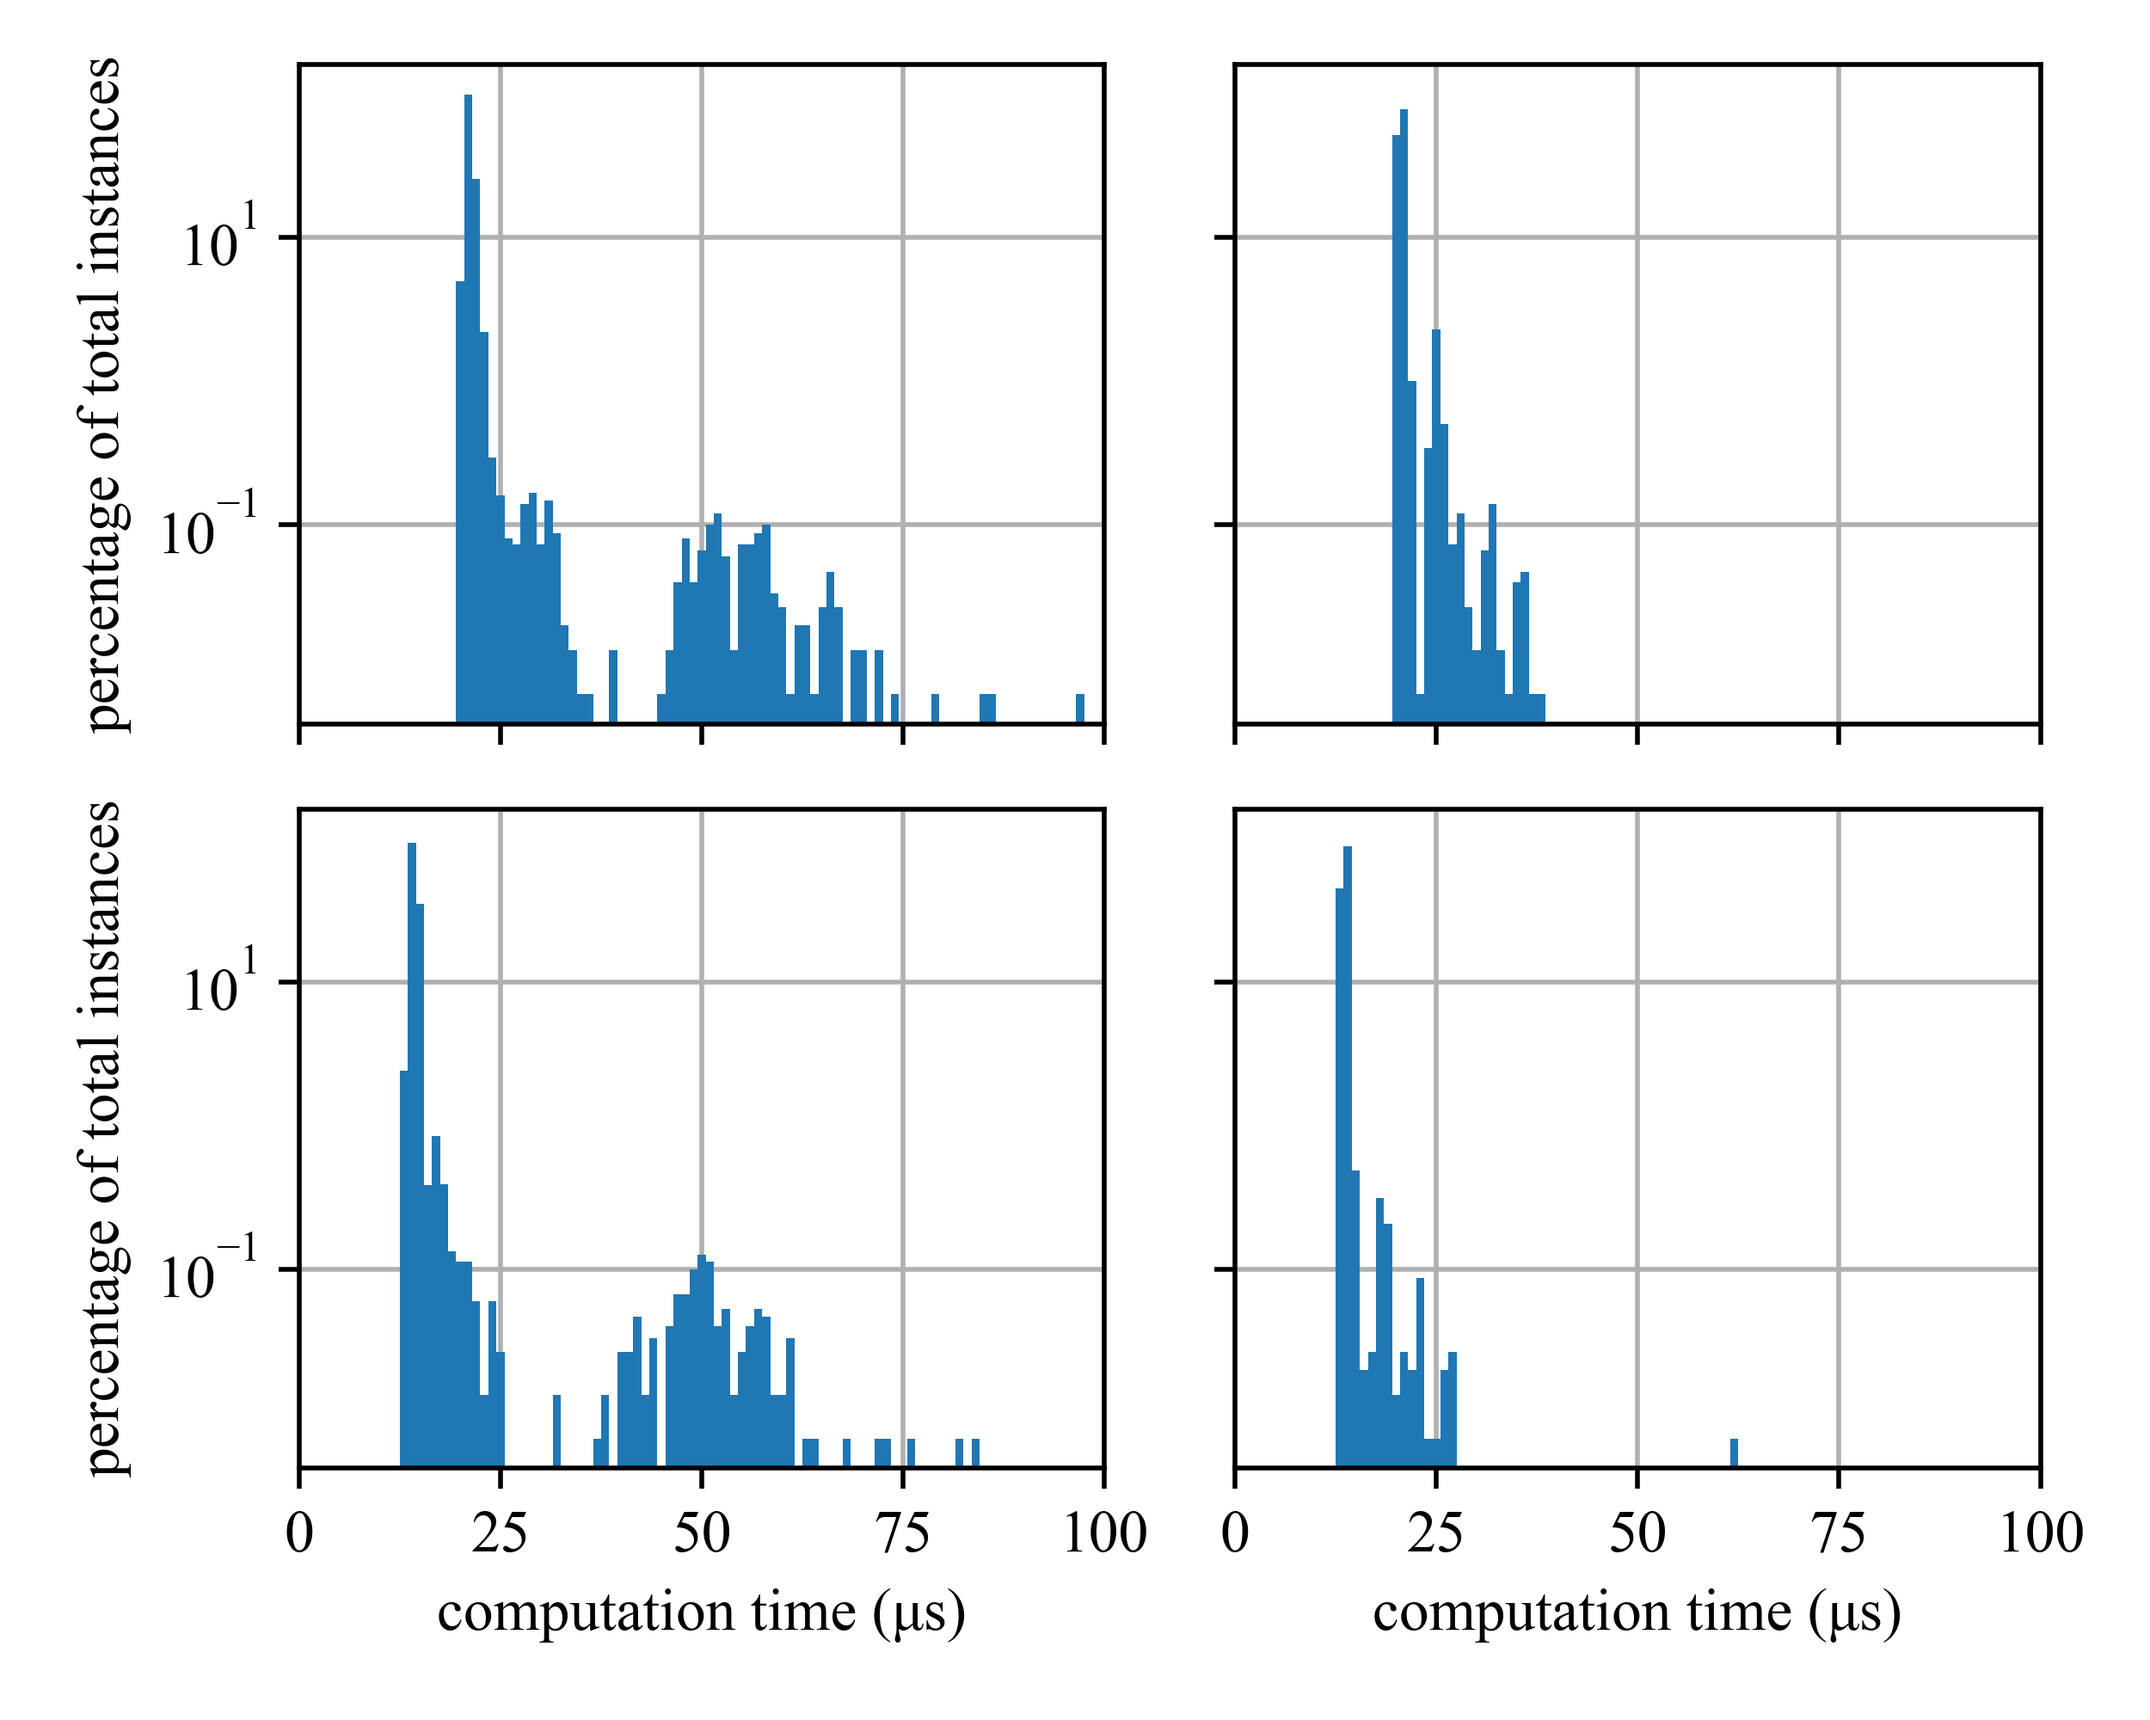
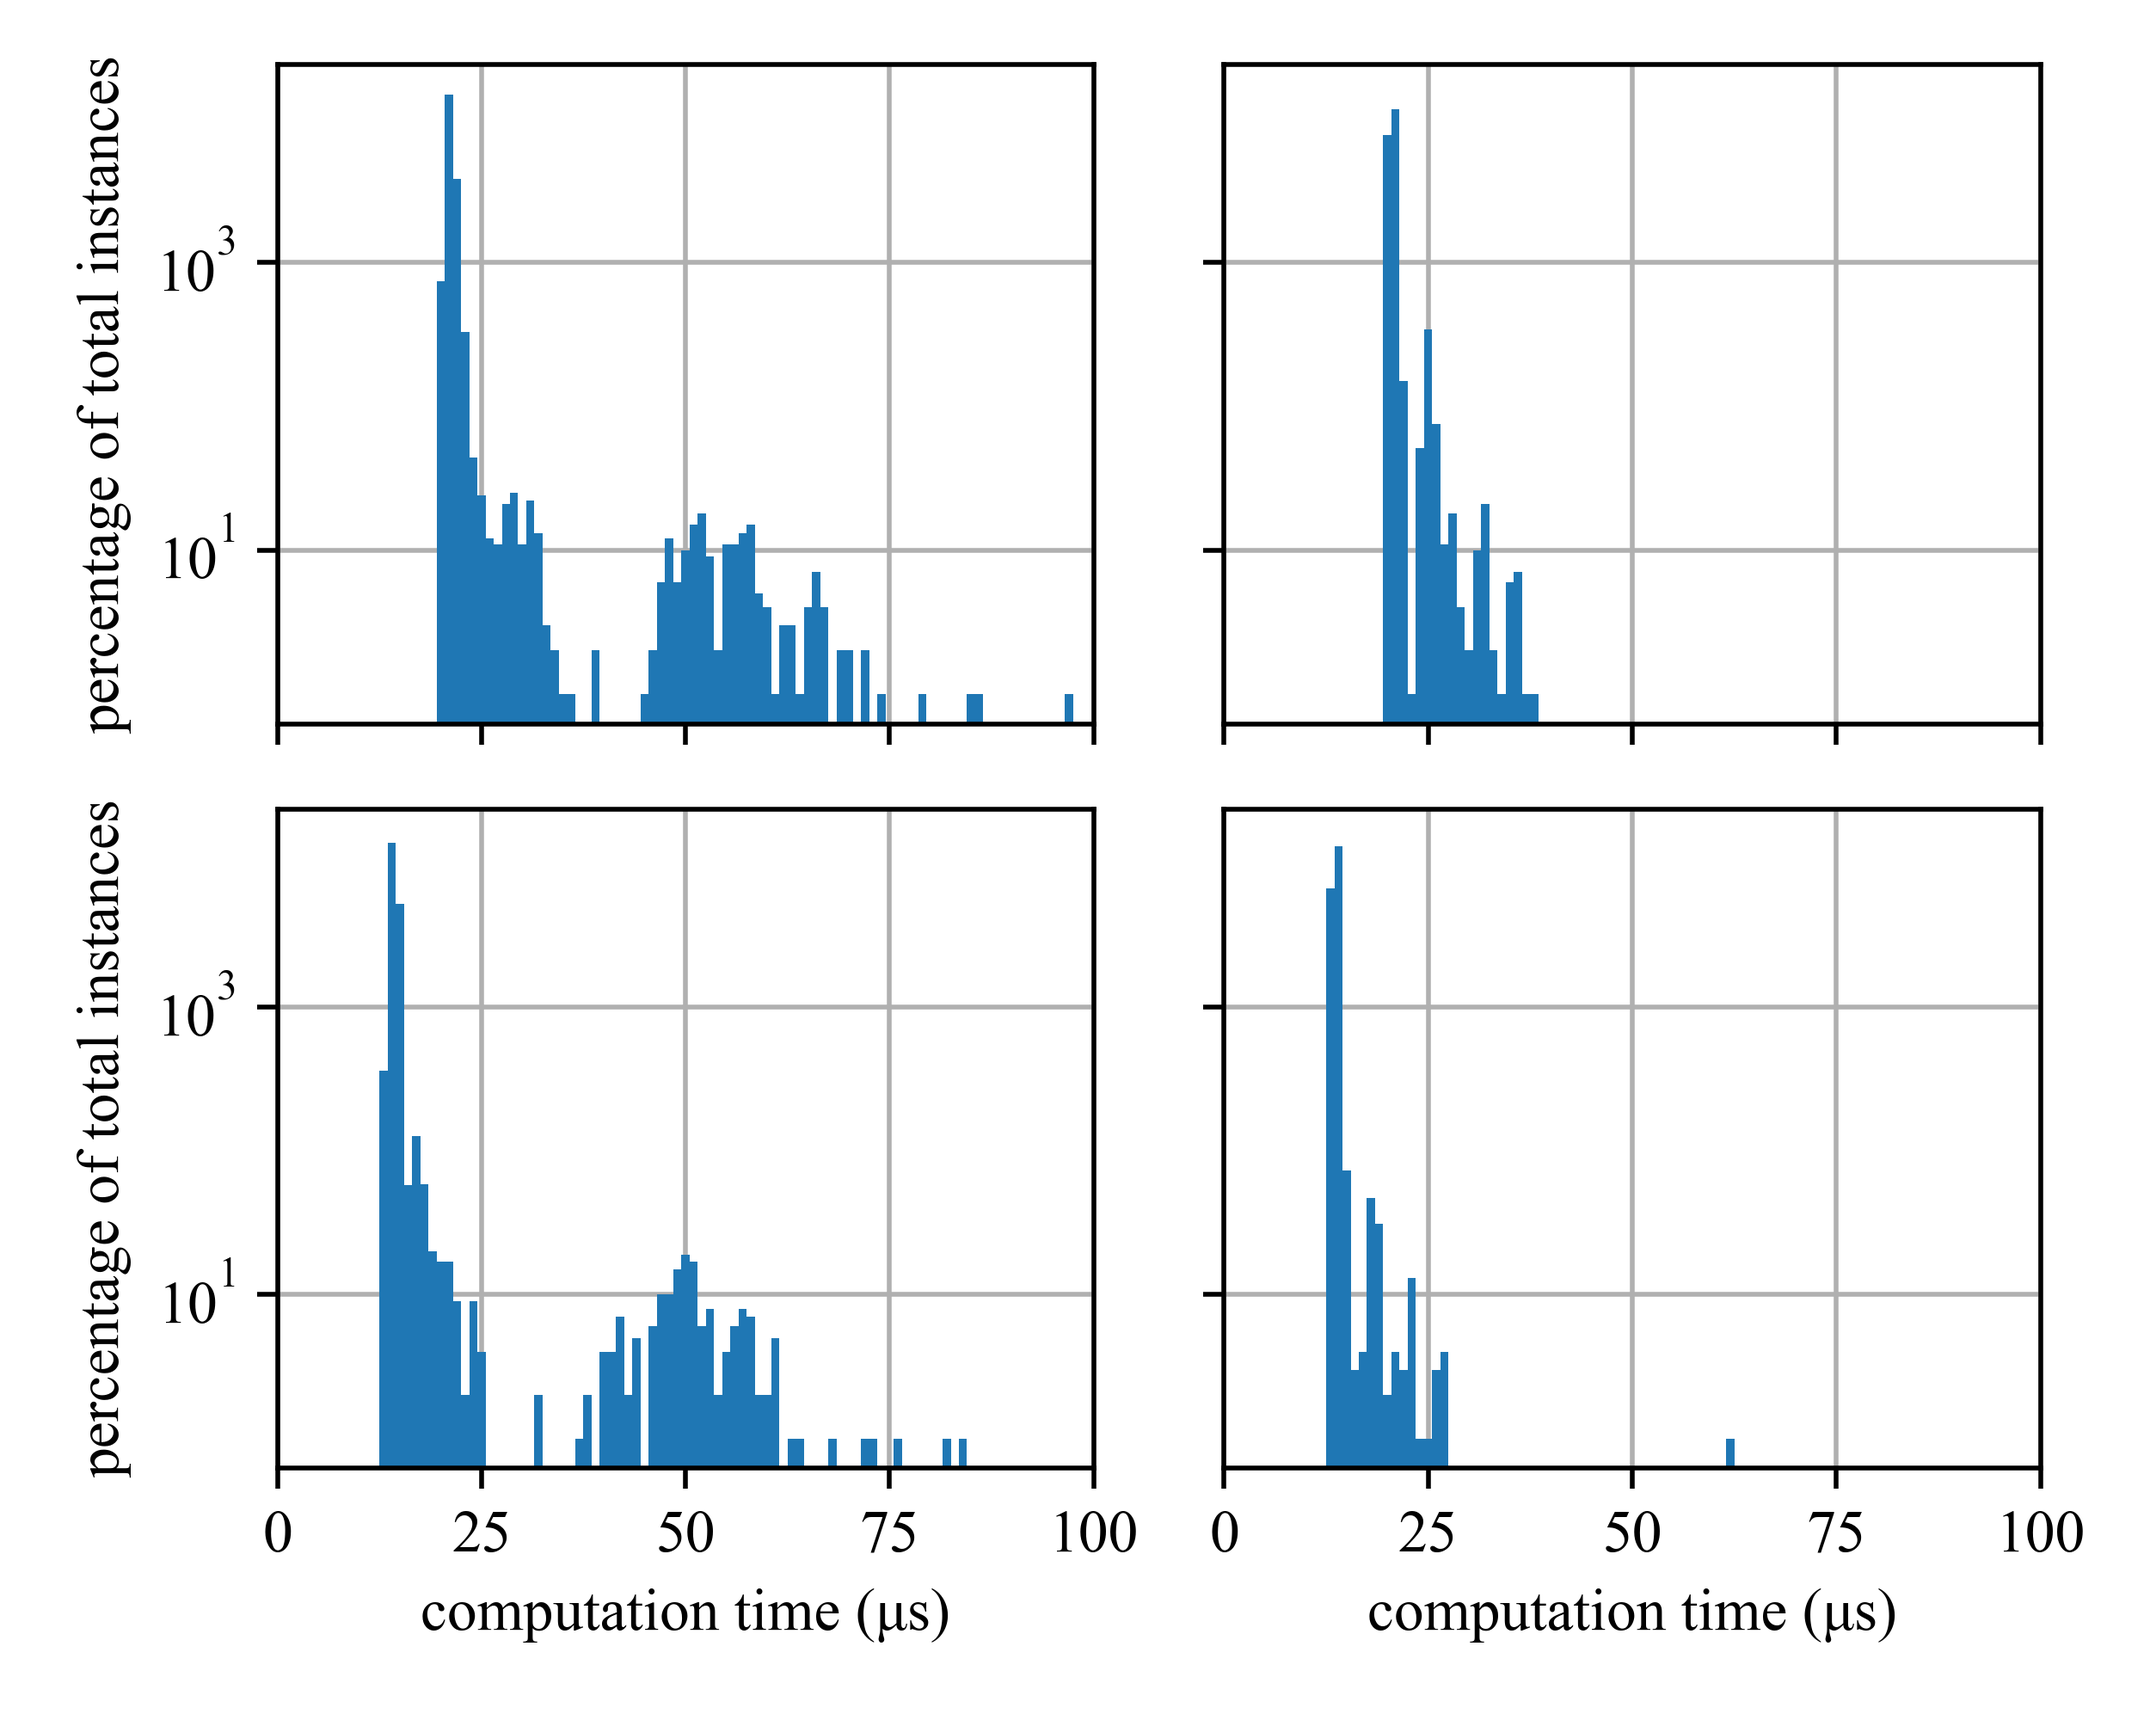
push plot code

diff --git a/prediction analysis/timing distribution plots.py b/prediction analysis/timing distribution plots.py
@@ -29,36 +29,305 @@ prio_sig = np.loadtxt('./timing distributions/priority sigmoid.csv', delimiter='
 
 
 dists = [gpos_mul, gpos_sig, rtos_mul, rtos_sig, prio_mul, prio_sig]
-
+#%% mean and std for all datasets
+for dist in dists:
+    d = np.repeat(np.arange(0, 150), dist)
+    mean = np.mean(d)
+    std = np.std(d)
+    print('mean: ' + str(mean))
+    print('std: ' + str(std))
+#%% normalize all the datasets
 for i in range(len(dists)):
     dists[i] = dists[i]/dists[i].size
-#%% mean and std for all datasets
+#%% all distributions with linear and log y axes
+dist = dists[0]
+fig, (ax1, ax2) = plt.subplots(1, 2, figsize=(7,2.5))
+ax1.bar(np.arange(0, 150), dist, width=1, align='center', edgecolor='k', linewidth=0)
+ax1.grid(True)
+ax1.set_axisbelow(True)
+ax1.set_xlim((0, 25))
+ax1.set_xlabel(u'computation time (\u03bcs)')
+ax1.set_ylabel('percentage of total instances')
 
-#%% 
+ax2.bar(np.arange(0, 150), dist, width=1, align='center', edgecolor='k', linewidth=0)
+ax2.grid(True)
+ax2.set_axisbelow(True)
+ax2.set_xlim((0, 25))
+plt.yscale('log')
+ax2.set_xlabel(u'computation time (\u03bcs)')
+ax2.set_ylabel('percentage of total instances')
+plt.tight_layout()
+plt.savefig('./plots/gpos multiply.png', dpi=500)
 
+#%%
+dist = dists[1]
+fig, (ax1, ax2) = plt.subplots(1, 2, figsize=(7,2.5))
+ax1.bar(np.arange(0, 150), dist, width=1, align='center', edgecolor='k', linewidth=0)
+ax1.grid(True)
+ax1.set_axisbelow(True)
+ax1.set_xlim((0, 50))
+ax1.set_xlabel(u'computation time (\u03bcs)')
+ax1.set_ylabel('percentage of total instances')
 
+ax2.bar(np.arange(0, 150), dist, width=1, align='center', edgecolor='k', linewidth=0)
+ax2.grid(True)
+ax2.set_axisbelow(True)
+ax2.set_xlim((0, 50))
+plt.yscale('log')
+ax2.set_xlabel(u'computation time (\u03bcs)')
+ax2.set_ylabel('percentage of total instances')
+plt.tight_layout()
+plt.savefig('./plots/gpos sigmoid.png', dpi=500)
+#%%
+dist = dists[2]
+fig, (ax1, ax2) = plt.subplots(1, 2, figsize=(7,2.5))
+ax1.bar(np.arange(0, 150), dist, width=1, align='center', edgecolor='k', linewidth=0)
+ax1.grid(True)
+ax1.set_axisbelow(True)
+ax1.set_xlim((0, 100))
+ax1.set_xlabel(u'computation time (\u03bcs)')
+ax1.set_ylabel('percentage of total instances')
+
+ax2.bar(np.arange(0, 150), dist, width=1, align='center', edgecolor='k', linewidth=0)
+ax2.grid(True)
+ax2.set_axisbelow(True)
+ax2.set_xlim((0, 100))
+plt.yscale('log')
+ax2.set_xlabel(u'computation time (\u03bcs)')
+ax2.set_ylabel('percentage of total instances')
+plt.tight_layout()
+plt.savefig('./plots/rtos multiply.png', dpi=500)
+#%%
+dist = dists[3]
+fig, (ax1, ax2) = plt.subplots(1, 2, figsize=(7,2.5))
+ax1.bar(np.arange(0, 150), dist, width=1, align='center', edgecolor='k', linewidth=0)
+ax1.grid(True)
+ax1.set_axisbelow(True)
+ax1.set_xlim((0, 90))
+ax1.set_xlabel(u'computation time (\u03bcs)')
+ax1.set_ylabel('percentage of total instances')
+
+ax2.bar(np.arange(0, 150), dist, width=1, align='center', edgecolor='k', linewidth=0)
+ax2.grid(True)
+ax2.set_axisbelow(True)
+ax2.set_xlim((0, 90))
+plt.yscale('log')
+ax2.set_xlabel(u'computation time (\u03bcs)')
+ax2.set_ylabel('percentage of total instances')
+plt.tight_layout()
+plt.savefig('./plots/rtos sigmoid.png', dpi=500)
+#%%
+dist = dists[4]
+fig, (ax1, ax2) = plt.subplots(1, 2, figsize=(7,2.5))
+ax1.bar(np.arange(0, 150), dist, width=1, align='center', edgecolor='k', linewidth=0)
+ax1.grid(True)
+ax1.set_axisbelow(True)
+ax1.set_xlim((0, 50))
+ax1.set_xlabel(u'computation time (\u03bcs)')
+ax1.set_ylabel('percentage of total instances')
+
+ax2.bar(np.arange(0, 150), dist, width=1, align='center', edgecolor='k', linewidth=0)
+ax2.grid(True)
+ax2.set_axisbelow(True)
+ax2.set_xlim((0, 50))
+plt.yscale('log')
+ax2.set_xlabel(u'computation time (\u03bcs)')
+ax2.set_ylabel('percentage of total instances')
+plt.tight_layout()
+plt.savefig('./plots/priority multiply.png', dpi=500)
+#%%
+dist = dists[5]
+fig, (ax1, ax2) = plt.subplots(1, 2, figsize=(7,2.5))
+ax1.bar(np.arange(0, 150), dist, width=1, align='center', edgecolor='k', linewidth=0)
+ax1.grid(True)
+ax1.set_axisbelow(True)
+ax1.set_xlim((0, 40))
+ax1.set_xlabel(u'computation time (\u03bcs)')
+ax1.set_ylabel('percentage of total instances')
+
+ax2.bar(np.arange(0, 150), dist, width=1, align='center', edgecolor='k', linewidth=0)
+ax2.grid(True)
+ax2.set_axisbelow(True)
+ax2.set_xlim((0, 40))
+plt.yscale('log')
+ax2.set_xlabel(u'computation time (\u03bcs)')
+ax2.set_ylabel('percentage of total instances')
+plt.tight_layout()
+plt.savefig('./plots/priority sigmoid.png', dpi=500)
+#%% multiplots comparing gpos, rtos results for multiply and sigmoid
+fig, (ax1, ax2) = plt.subplots(2, 1, figsize=(5, 4), sharex=True, sharey=True)
+plt.xlim((0, 100))
+
+ax1.bar(np.arange(0, 150), dists[0], width=1, align='center', edgecolor='k', linewidth=0)
+ax1.grid(True)
+ax1.set_axisbelow(True)
+plt.yscale('log')
+ax1.set_ylabel('percentage of total instances')
+
+ax2.bar(np.arange(0, 150), dists[2], width=1, align='center', edgecolor='k', linewidth=0)
+ax2.grid(True)
+ax2.set_axisbelow(True)
+plt.yscale('log')
+ax2.set_xlabel(u'computation time (\u03bcs)')
+ax2.set_ylabel('percentage of total instances')
+
+plt.tight_layout()
+plt.savefig('./plots/gpos_rtos multiply.png', dpi=500)
+#%%
+fig, (ax1, ax2) = plt.subplots(2, 1, figsize=(5, 4), sharex=True, sharey=True)
+plt.xlim((0, 100))
+
+ax1.bar(np.arange(0, 150), dists[1], width=1, align='center', edgecolor='k', linewidth=0)
+ax1.grid(True)
+ax1.set_axisbelow(True)
+plt.yscale('log')
+ax1.set_ylabel('percentage of total instances')
+
+ax2.bar(np.arange(0, 150), dists[3], width=1, align='center', edgecolor='k', linewidth=0)
+ax2.grid(True)
+ax2.set_axisbelow(True)
+plt.yscale('log')
+ax2.set_xlabel(u'computation time (\u03bcs)')
+ax2.set_ylabel('percentage of total instances')
+
+plt.tight_layout()
+plt.savefig('./plots/gpos_rtos sigmoid.png', dpi=500)
+#%% same thing comparing rtos and priority
+fig, (ax1, ax2) = plt.subplots(2, 1, figsize=(5, 4), sharex=True, sharey=True)
+plt.xlim((0, 100))
+
+ax1.bar(np.arange(0, 150), dists[2], width=1, align='center', edgecolor='k', linewidth=0)
+ax1.grid(True)
+ax1.set_axisbelow(True)
+plt.yscale('log')
+ax1.set_ylabel('percentage of total instances')
+
+ax2.bar(np.arange(0, 150), dists[4], width=1, align='center', edgecolor='k', linewidth=0)
+ax2.grid(True)
+ax2.set_axisbelow(True)
+plt.yscale('log')
+ax2.set_xlabel(u'computation time (\u03bcs)')
+ax2.set_ylabel('percentage of total instances')
+
+plt.tight_layout()
+plt.savefig('./plots/rtos_priority multiply.png', dpi=500)
+#%%
+fig, (ax1, ax2) = plt.subplots(2, 1, figsize=(5, 4), sharex=True, sharey=True)
+plt.xlim((0, 100))
+
+ax1.bar(np.arange(0, 150), dists[3], width=1, align='center', edgecolor='k', linewidth=0)
+ax1.grid(True)
+ax1.set_axisbelow(True)
+plt.yscale('log')
+ax1.set_ylabel('percentage of total instances')
+
+ax2.bar(np.arange(0, 150), dists[5], width=1, align='center', edgecolor='k', linewidth=0)
+ax2.grid(True)
+ax2.set_axisbelow(True)
+plt.yscale('log')
+ax2.set_xlabel(u'computation time (\u03bcs)')
+ax2.set_ylabel('percentage of total instances')
+
+plt.tight_layout()
+plt.savefig('./plots/rtos_priority sigmoid.png', dpi=500)
 #%% 2x2 plot with gpos and rtos distributions
-fig, axes = plt.subplots(2, 2, figsize=(5,5), sharex=True, sharey=True)
+fig, axes = plt.subplots(2, 2, figsize=(5,4), sharex=True, sharey=True)
 plt.xlim((0, 100))
 
 axes[0,0].bar(np.arange(0, 150), dists[0], width=1, align='center', edgecolor='k', linewidth=0)
 axes[0,0].set_axisbelow(True)
 plt.yscale('log')
+axes[0,0].grid(True)
 axes[0,0].set_ylabel('percentage of total instances')
 
 axes[1,0].bar(np.arange(0, 150), dists[1], width=1, align='center', edgecolor='k', linewidth=0)
 axes[1,0].set_axisbelow(True)
 plt.yscale('log')
+axes[1,0].grid(True)
 axes[1,0].set_ylabel('percentage of total instances')
+axes[1,0].set_xlabel(u'computation time (\u03bcs)')
 
 axes[0,1].bar(np.arange(0, 150), dists[2], width=1, align='center', edgecolor='k', linewidth=0)
 axes[0,1].set_axisbelow(True)
 plt.yscale('log')
-axes[0,1].set_xlabel(u'forward pass time (\u03bcs)')
+axes[0,1].grid(True)
 
 axes[1,1].bar(np.arange(0, 150), dists[3], width=1, align='center', edgecolor='k', linewidth=0)
 axes[1,1].set_axisbelow(True)
 plt.yscale('log')
-axes[1,1].set_xlabel(u'forward pass time (\u03bcs)')
-plt.savefig('./plots/gpos_rtos2x2.png', dpi=500)
+axes[1,1].grid(True)
+axes[1,1].set_xlabel(u'computation time (\u03bcs)')
 
+plt.tight_layout()
+plt.savefig('./plots/gpos_rtos2x2.png', dpi=500)
+#%% 2x2 plot with rtos and priority distributions
+fig, axes = plt.subplots(2, 2, figsize=(5,4), sharex=True, sharey=True)
+plt.xlim((0, 100))
+
+axes[0,0].bar(np.arange(0, 150), dists[2], width=1, align='center', edgecolor='k', linewidth=0)
+axes[0,0].set_axisbelow(True)
+plt.yscale('log')
+axes[0,0].grid(True)
+axes[0,0].set_ylabel('percentage of total instances')
+
+axes[1,0].bar(np.arange(0, 150), dists[3], width=1, align='center', edgecolor='k', linewidth=0)
+axes[1,0].set_axisbelow(True)
+plt.yscale('log')
+axes[1,0].grid(True)
+axes[1,0].set_ylabel('percentage of total instances')
+axes[1,0].set_xlabel(u'computation time (\u03bcs)')
+
+axes[0,1].bar(np.arange(0, 150), dists[4], width=1, align='center', edgecolor='k', linewidth=0)
+axes[0,1].set_axisbelow(True)
+plt.yscale('log')
+axes[0,1].grid(True)
+
+axes[1,1].bar(np.arange(0, 150), dists[5], width=1, align='center', edgecolor='k', linewidth=0)
+axes[1,1].set_axisbelow(True)
+plt.yscale('log')
+axes[1,1].grid(True)
+axes[1,1].set_xlabel(u'computation time (\u03bcs)')
+
+plt.tight_layout()
+plt.savefig('./plots/rtos_priority2x2.png', dpi=500)
+#%% all plots together
+fig, axes = plt.subplots(2, 3, figsize=(6.5,4), sharex=True, sharey=True)
+plt.xlim((0, 100))
+
+axes[0,0].bar(np.arange(0, 150), dists[0], width=1, align='center', edgecolor='k', linewidth=0)
+axes[0,0].set_axisbelow(True)
+plt.yscale('log')
+axes[0,0].grid(True)
+axes[0,0].set_ylabel('percentage of total instances')
+
+axes[1,0].bar(np.arange(0, 150), dists[1], width=1, align='center', edgecolor='k', linewidth=0)
+axes[1,0].set_axisbelow(True)
+plt.yscale('log')
+axes[1,0].grid(True)
+axes[1,0].set_ylabel('percentage of total instances')
+axes[1,0].set_xlabel(u'computation time (\u03bcs)')
+
+axes[0,1].bar(np.arange(0, 150), dists[2], width=1, align='center', edgecolor='k', linewidth=0)
+axes[0,1].set_axisbelow(True)
+plt.yscale('log')
+axes[0,1].grid(True)
+
+axes[1,1].bar(np.arange(0, 150), dists[3], width=1, align='center', edgecolor='k', linewidth=0)
+axes[1,1].set_axisbelow(True)
+plt.yscale('log')
+axes[1,1].grid(True)
+axes[1,1].set_xlabel(u'computation time (\u03bcs)')
+
+axes[0,2].bar(np.arange(0, 150), dists[4], width=1, align='center', edgecolor='k', linewidth=0)
+axes[0,2].set_axisbelow(True)
+plt.yscale('log')
+axes[0,2].grid(True)
+
+axes[1,2].bar(np.arange(0, 150), dists[5], width=1, align='center', edgecolor='k', linewidth=0)
+axes[1,2].set_axisbelow(True)
+plt.yscale('log')
+axes[1,2].grid(True)
+axes[1,2].set_xlabel(u'computation time (\u03bcs)')
+
+plt.tight_layout()
+plt.savefig('./plots/all_dists2x3.png', dpi=500)
